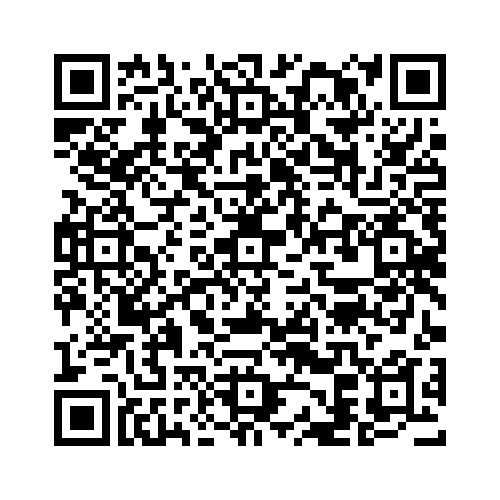
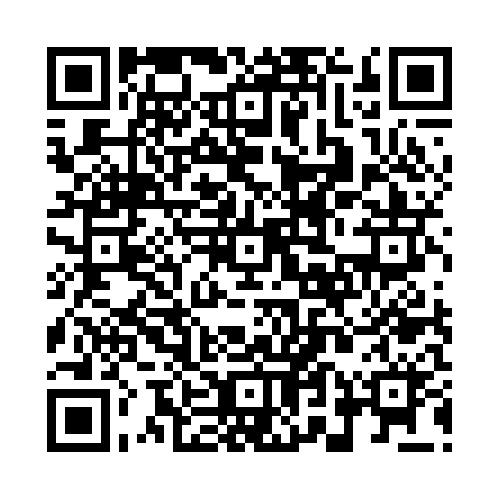
Update QR,JWTutils and some minors changes

diff --git a/src/main/java/domain/entities/utils/QR/JWTUtil.java b/src/main/java/domain/entities/utils/QR/JWTUtil.java
@@ -1,22 +1,23 @@
 package domain.entities.utils.QR;
 
 
+import config.Config;
 import io.jsonwebtoken.*;
+import io.jsonwebtoken.io.Decoders;
 import io.jsonwebtoken.io.Encoders;
 import io.jsonwebtoken.security.Keys;
-import java.security.Key;
 
-// We need a signing key, so we'll create one just for this example. Usually
-// the key would be read from your application configuration instead.
+import javax.crypto.SecretKey;
+import java.security.Key;
 
 public class JWTUtil {
 
-    public static Key key = Keys.secretKeyFor(SignatureAlgorithm.HS256);
-    //String jws = Jwts.builder().setSubject("Joe").signWith(key).compact();
+    //public static Key key = Keys.secretKeyFor(SignatureAlgorithm.HS256);
+    public static SecretKey key = Keys.hmacShaKeyFor(Decoders.BASE64.decode(Config.secretToken));
 
-    public String createToken(String idDuenio,String nombreMascota){
+    public String createRescateToken(String idMascota, String nombreMascota){
         //Header header = Header
-        return Jwts.builder().setId(idDuenio).setSubject("mascota_perdida").claim("nombre_mascota",nombreMascota).signWith(key).compact();
+        return Jwts.builder().setId(idMascota).setSubject("mascota_perdida").signWith(key).compact();
     }
     public String getSecretCode(){ // TODO: borrar luego esto no es seguro tener el secret en el codigo,tampoco usar el id (se podria hashear)
         return Encoders.BASE64.encode(key.getEncoded());
@@ -24,7 +25,7 @@ public class JWTUtil {
     public Boolean verificarToken(String token){
         return false;
     }
-    public Jws<Claims> leerRequest(String token){
+    public Jws<Claims> leerToken(String token){
         //Jws<Claims> jws;
         try {
             return Jwts.parserBuilder().setSigningKey(key).build().parseClaimsJws(token); //payload
@@ -33,6 +34,10 @@ public class JWTUtil {
             System.out.println(e.getCause());
             return null;
         }
+    }
+
+    public String parseURLRescate(String URL){
+        return null;
     }
 
 }

diff --git a/src/test/java/rescate/RescatesTest.java b/src/test/java/rescate/RescatesTest.java
@@ -14,9 +14,9 @@ public class RescatesTest {
     public void generarTokenTest(){
 
         JWTUtil jwt = new JWTUtil();
-        String token = jwt.createToken("1","firulais");
+        String token = jwt.createRescateToken("1","firulais");
         System.out.println(token);
-        Jws<Claims> parsed= jwt.leerRequest(token);
+        Jws<Claims> parsed= jwt.leerToken(token);
 
         System.out.println(parsed.getBody());
 
@@ -28,9 +28,30 @@ public class RescatesTest {
                 null,null,null, Sexo.HEMBRA,null);
         Usuario duenio = new Usuario();
         duenio.setId(1);
+        mascota.setId(2);
         RegistroDeMascotasHandler utilRegistro = RegistroDeMascotasHandler.getInstancia();
         String resp = utilRegistro.crearQR(mascota,duenio);
         mascota.setQRPath(resp);
-        Assert.assertNotEquals(resp,null); // pasa la prueba si no es null
+        Assert.assertNotEquals(null,resp);
+    }
+    @Test
+    public void leerTokenRescate() throws Exception {
+        MascotaRegistrada mascota = new MascotaRegistrada("carlos","firulais", TipoMascota.PERRO,null, TamanioMascota.GRANDE,
+                null,null,null, Sexo.HEMBRA,null);
+        Usuario duenio = new Usuario();
+        duenio.setId(1);
+        mascota.setId(1);
+        RegistroDeMascotasHandler utilRegistro = RegistroDeMascotasHandler.getInstancia();
+        GeneradorQRRescate generador = new GeneradorQRRescate();
+        String URLRescate = generador.generarURL(String.valueOf(mascota.getId()), mascota.getNombre());
+        ////
+
+        /*JWTUtil jwt = new JWTUtil();
+        Jws<Claims> parsed= jwt.leerToken();
+        String idMascota = parsed.getBody().getId();
+        //
+        System.out.println(parsed.getBody().getSubject());
+        Assert.assertEquals(mascota.getId(),idMascota);
+*/
     }
 }

diff --git a/src/main/java/domain/entities/usuarios/MensajeMascotaPerdida.java b/src/main/java/domain/entities/usuarios/MensajeMascotaPerdida.java
@@ -1,0 +1,58 @@
+package domain.entities.usuarios;
+
+import domain.entities.mascotas.MascotaRegistrada;
+import domain.entities.utils.notificador.notificables.Notificable;
+
+import java.time.LocalDate;
+
+public class MensajeMascotaPerdida implements Notificable {
+    //public Usuario duenio;
+    public Contacto contacto;
+    public MascotaRegistrada mascota;
+    public Usuario rescatista;
+    public LocalDate fechaDeEnvio;
+
+    public MensajeMascotaPerdida(Contacto contacto, MascotaRegistrada mascota, Usuario rescatista) {
+        this.contacto = contacto;
+        this.mascota = mascota;
+        this.rescatista = rescatista;
+    }
+
+
+    @Override
+    public String mensaje() {
+
+        String body = new String();
+
+        body = "Hola " + contacto.getNombre()+ " " + contacto.getApellido()+"\n"+
+                "La mascota"+mascota.getNombre()+" ha sido encontrada\n"+"Comuniquese con el rescatista para arreglar un encuentro!\n Informacion:"+
+                "Persona que encontro a la mascota:"+
+                "Nombre:"+rescatista.getNombre()+
+                "Apellido:" + rescatista.getApellido()+"\n";
+
+
+        for(Contacto contacto: rescatista.getContactos()){
+            body.concat(contacto.getDatos());
+            body = body + "\n";
+        }
+
+        return body;
+    }
+
+    @Override
+    public String medio() {
+        return null;
+    }
+
+    @Override
+    public String destinatario() {
+        String destinatario;
+        switch(contacto.getMediosDeNotificacion()){
+            case EMAIL: destinatario= contacto.getEmail();break;
+            case SMS: destinatario=contacto.getTelefono();break;
+            case WHATSAPP: destinatario= contacto.getTelefono();break;
+            default: destinatario=null;
+        }
+        return destinatario;
+    }
+}

diff --git a/src/main/java/domain/entities/usuarios/Contacto.java b/src/main/java/domain/entities/usuarios/Contacto.java
@@ -1,5 +1,6 @@
 package domain.entities.usuarios;
 
+
 import javax.persistence.*;
 import java.util.ArrayList;
 import java.util.List;
@@ -25,8 +26,8 @@ public class Contacto {
     @Column
     private String email;
 
-    @Transient
-    private List<MedioDeNotificacion> mediosDeNotificacion;
+    @Transient // por ahora solo un medio de notificacion, segun lo charlado con el ayudante era mejor evitar varios medios al mismo tiempo
+    private MedioDeNotificacion mediosDeNotificacion;
 
     @OneToMany(cascade = CascadeType.ALL, fetch = FetchType.LAZY)
     private List<Notificacion> notificaciones;
@@ -43,8 +44,16 @@ public class Contacto {
         this.telefono = telefono;
         this.email = email;
 
-        this.mediosDeNotificacion = new ArrayList<>();
         this.notificaciones = new ArrayList<>();
+    }
+
+    public String getDatos(){
+        String data = new String();
+        data="Nombre: "+ getNombre()+"\n"+
+             "Apellido: "+ getApellido()+"\n"+
+             "Telefono: "+ getTelefono()+"\n"+
+             "Email: "+ getEmail();
+        return data;
     }
 
 
@@ -90,7 +99,7 @@ public class Contacto {
         this.email = email;
     }
 
-    public List<MedioDeNotificacion> getMediosDeNotificacion() {
+    public MedioDeNotificacion getMediosDeNotificacion() {
         return mediosDeNotificacion;
     }
 
@@ -99,7 +108,7 @@ public class Contacto {
     }
 
     // ToDo
-    public void setMediosDeNotificacion(List<MedioDeNotificacion> mediosDeNotificacion) {
+    public void setMediosDeNotificacion(MedioDeNotificacion mediosDeNotificacion) {
         this.mediosDeNotificacion = mediosDeNotificacion;
     }
 

diff --git a/src/main/java/domain/entities/usuarios/Usuario.java b/src/main/java/domain/entities/usuarios/Usuario.java
@@ -26,7 +26,6 @@ public class Usuario extends Persona{
     private List<PublicacionDeAdopcion> publicacionesAdopcion;
     private List<PublicacionIntencionAdopcion> publicacionesIntAdopcion;
 
-    // TODO: registro ?
     public Boolean registrarMascota(MascotaBasica mascota,String nombre, String apodo,
                                     LocalDate edadAproximada,List<CaracteristicasONG> caracteristicas
                                     ){
@@ -43,8 +42,9 @@ public class Usuario extends Persona{
     public void agregarMascota(MascotaRegistrada mascotaRegistrada){
         this.mascotaRegistradas.add(mascotaRegistrada);
     }
+
     public void avisarMascotaPerdida(Rescate rescate){
-        rescate.avisarDuenio();
+        //rescate.avisarMascotaEncontrada();
     }
     public void publicarMascotaPerdida(PublicacionRescate publicacionRescate){
         publicacionesRescate.add(publicacionRescate);
@@ -66,4 +66,11 @@ public class Usuario extends Persona{
     }
 
 
+    public List<Contacto> getContactos() {
+        return contactos;
+    }
+
+    public void setContactos(List<Contacto> contactos) {
+        this.contactos = contactos;
+    }
 }

diff --git a/src/main/java/domain/entities/rescate/Rescate.java b/src/main/java/domain/entities/rescate/Rescate.java
@@ -1,17 +1,24 @@
 package domain.entities.rescate;
 
 import domain.entities.mascotas.MascotaPerdida;
+import domain.entities.usuarios.Contacto;
+import domain.entities.usuarios.MensajeMascotaPerdida;
 import domain.entities.usuarios.Usuario;
+import domain.entities.utils.notificador.notificables.Mensaje;
 
 public class Rescate {
     private Usuario duenio;
     private MascotaPerdida mascotaPerdida;
+    private EstadoMascotaPerdida estadoMascota = EstadoMascotaPerdida.CON_RESCATISTA;
+    private Usuario rescatista=null;
 
-    public void avisarDuenio(){
-
+    public void avisarMascotaEncontrada(Contacto contacto){ // del rescatista al duenio
+        //MensajeMascotaPerdida mensaje = new MensajeMascotaPerdida(duenio,);
     }
     public Usuario buscarDuenio(){
-        // TODO: buscar en DB por token, analizar eficiencia
         return null;
+    }
+    public void avisarRescatistaPublicacion(){ // cuando alguien responde a la publicacion del rescatista
+
     }
 }

diff --git a/src/main/java/domain/entities/utils/QR/GeneradorQRRescate.java b/src/main/java/domain/entities/utils/QR/GeneradorQRRescate.java
@@ -2,7 +2,7 @@ package domain.entities.utils.QR;
 
 import domain.entities.mascotas.MascotaRegistrada;
 import domain.entities.usuarios.Usuario;
-import domain.entities.utils.QR.Adaptee.ZXing;
+import domain.entities.utils.QR.AdapteeQR.ZXing;
 
 public class GeneradorQRRescate implements GeneradorToken {
     private final String pathFile="src/main/resources/dueniosQRs/";
@@ -21,7 +21,7 @@ public class GeneradorQRRescate implements GeneradorToken {
 
     public String crearQR(MascotaRegistrada mascota, Usuario usuario) throws Exception{
         String pathQR = pathFile+"usuario"+String.valueOf(usuario.getId())+".jpg";
-        String URL = generarURL(String.valueOf(usuario.getId()),mascota.getApodo());
+        String URL = generarURL(String.valueOf(mascota.getId()),mascota.getApodo());
         adaptee.crearQR(URL,pathQR);
         return pathQR;
     }

diff --git a/src/main/java/domain/entities/mascotas/RegistroDeMascotasHandler.java b/src/main/java/domain/entities/mascotas/RegistroDeMascotasHandler.java
@@ -9,7 +9,7 @@ import java.util.List;
 import java.util.stream.Collectors;
 
 // singleton
-public final class RegistroDeMascotasHandler implements GeneradorQR {
+public final class RegistroDeMascotasHandler {
 
     private static RegistroDeMascotasHandler registroDeMascotasHandler; // singleton
     private static AdapterNormalizador normalizadorImagen;

diff --git a/src/main/java/domain/entities/utils/notificador/estrategias/NotificarEmail.java b/src/main/java/domain/entities/utils/notificador/estrategias/NotificarEmail.java
@@ -33,7 +33,6 @@ public class NotificarEmail implements EstrategiaDeNotificacion {
                         return new PasswordAuthentication(ACCOUNT_USER, ACCOUNT_PASS);
                     }
                 });
-
         try {
             Message message = new MimeMessage(session);
             message.setFrom(new InternetAddress(ACCOUNT_USER));

diff --git a/src/main/java/config/Config.java b/src/main/java/config/Config.java
@@ -5,4 +5,7 @@ public class Config {
     public static boolean useDataBase = false;
     // Spark
     public static int sparkPort = 9002;
+    // SecretToken
+    public static String secretToken = "wLLPnHGIMfTj2F/jbqCpgykBVzQhJUk1cj6FkGgZ05o="; // TODO: variable de entorno
+    //public static String secretToken = System.getenv("SecretToken");
 }

diff --git a/src/main/java/domain/entities/utils/QR/AdapterGeneradorDeToken.java b/src/main/java/domain/entities/utils/QR/AdapterGeneradorDeToken.java
@@ -3,6 +3,6 @@ package domain.entities.utils.QR;
 public class AdapterGeneradorDeToken implements GeneradorToken {
     public JWTUtil jwt = new JWTUtil();
     public String generarToken(String id, String nombreMascota) {
-            return jwt.createToken(id,nombreMascota);
+            return jwt.createRescateToken(id,nombreMascota);
     }
 }

diff --git a/src/test/java/domain/entities/utils/notificador/NotificadorTest.java b/src/test/java/domain/entities/utils/notificador/NotificadorTest.java
@@ -25,6 +25,8 @@ public class NotificadorTest {
 
     @Test
     public void NotificarEmail() {
+        System.out.println(System.getenv("DDS_EMAIL_ACCOUNT_USER"));
+        System.out.println(System.getenv("DDS_EMAIL_ACCOUNT_PASS"));
         this.notificador.setNotificable(this.mensaje);
         this.notificador.notificar();
     }
